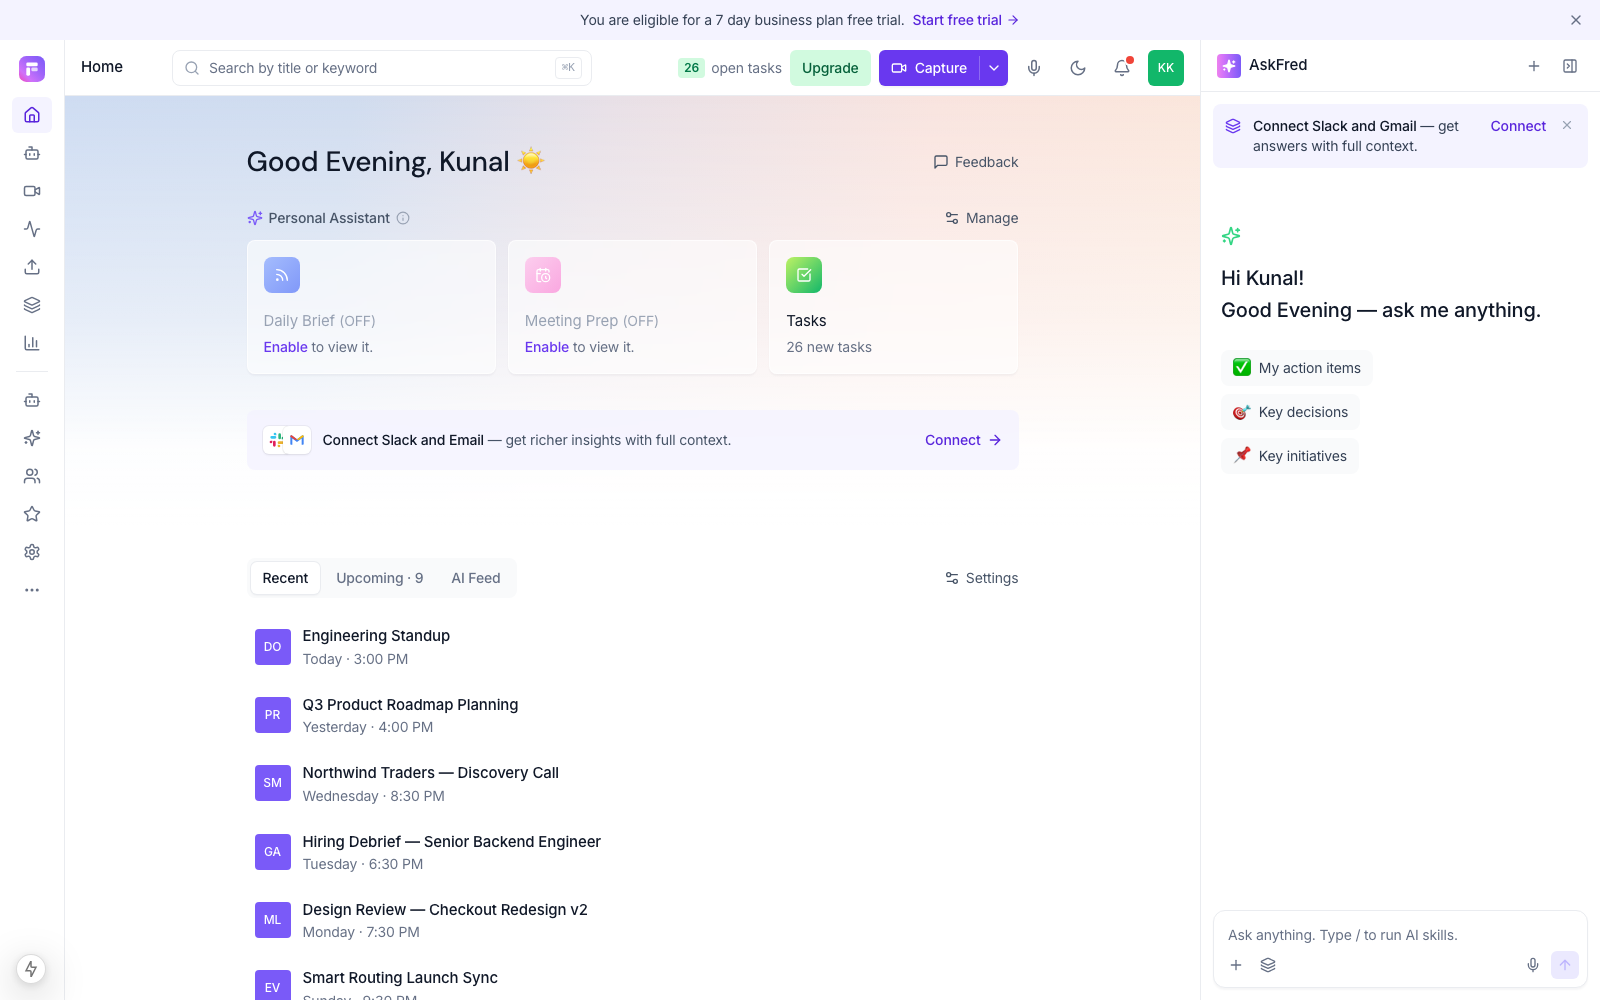
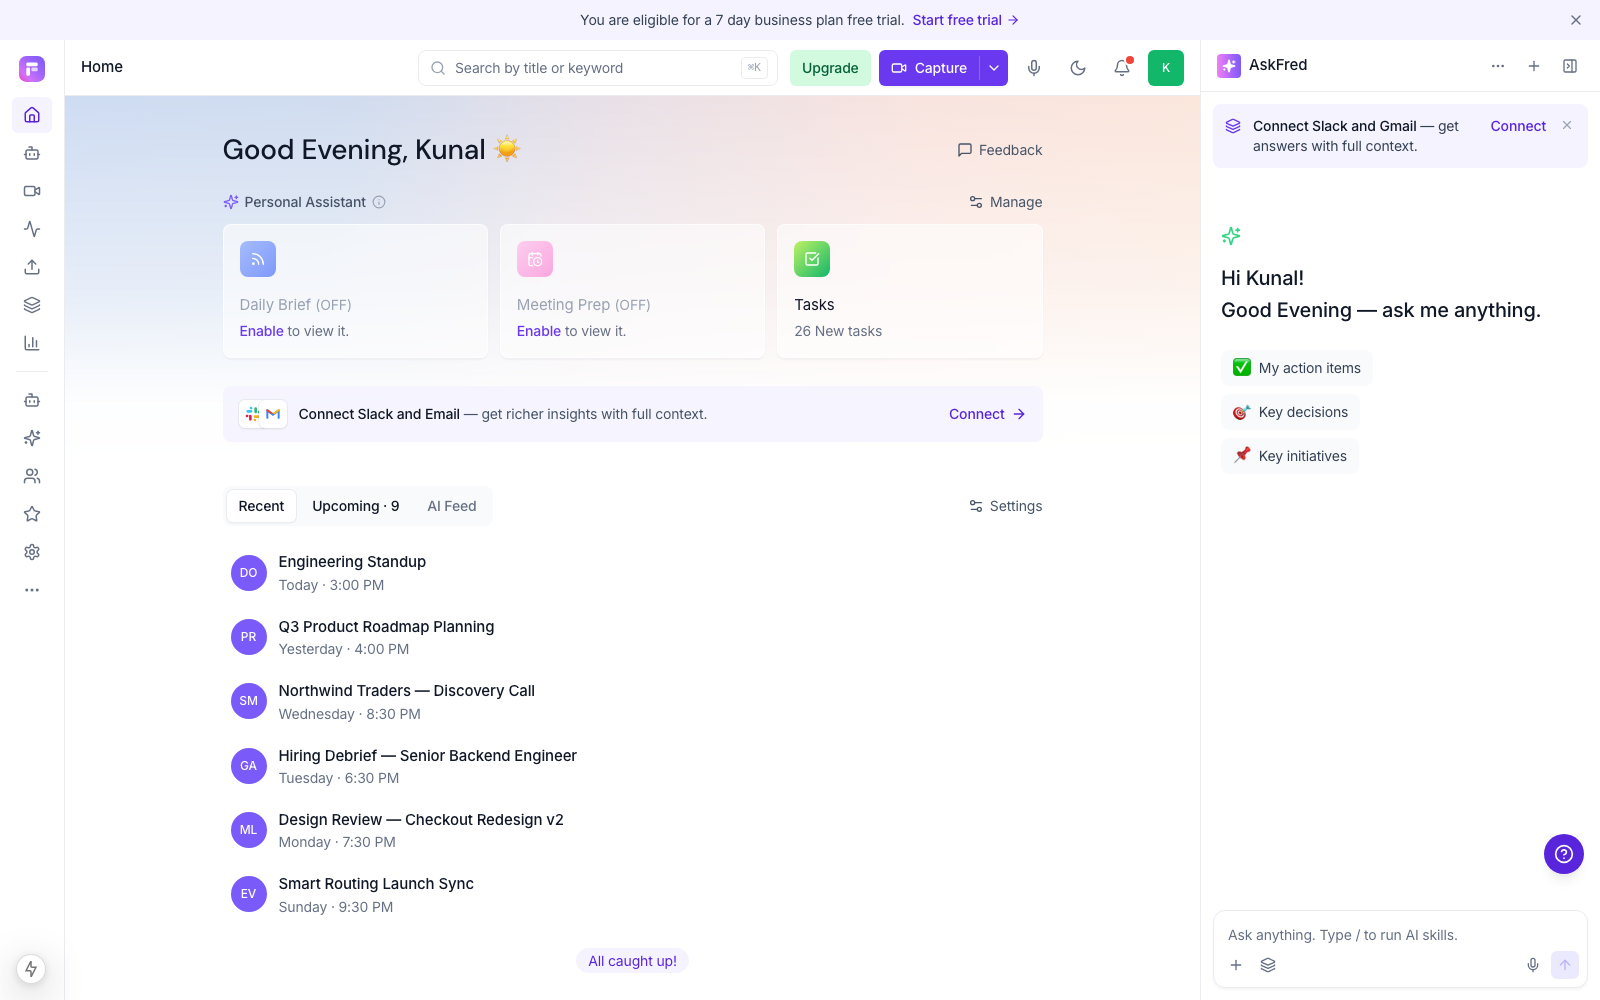
fix(web): align the home screen to the measured original
Stacking my home screen against the real one at the same viewport made the
differences obvious in a way that looking at either alone had not.

Three were structural. The content column was 771px against 819px. The gap
between the integrations banner and the feed tabs was 89px against 44px, because
the gradient block's bottom padding and the feed's top padding were stacking —
that doubled space was most of why the page felt loose. And the feed avatars
were rounded squares where the product uses circles.

The top bar needed a different fix. Centring the search with mx-auto let the
wide action cluster push it left, and absolute positioning corrected the centring
but took it out of flow so it overlapped the Upgrade button. A three-column grid
with equal flanks centres it against the bar and reserves the space, so neither
failure is possible.

That grid only balances if the flanks fit, so the open-tasks badge is gone from
the top bar. It was my own addition rather than anything the original has, the
count is a click away on the Tasks page, and it was what pushed the search off
centre and wrapped onto two lines.

Also adds the assistant panel's overflow menu and floating help control, and
drops the account chip to a single initial.

diff --git a/frontend/app/home/page.tsx b/frontend/app/home/page.tsx
@@ -82,7 +82,7 @@ export default function HomePage() {
     <AppShell title="Home" askFred onCapture={() => setCreateOpen(true)}>
       {/* The soft gradient wash behind the greeting, as on the real Home. */}
       <div className="bg-home-wash dark:bg-home-wash-dark">
-        <div className="mx-auto w-full max-w-[820px] px-6 pb-14 pt-12">
+        <div className="mx-auto w-full max-w-[868px] px-6 pb-7 pt-9">
           <div className="flex flex-wrap items-center justify-between gap-3">
             <h1 className="font-appDisplay text-[28px] font-medium leading-9 tracking-title text-gray-900 dark:text-gray-100">
               {greeting()}, {user?.name?.split(" ")[0] ?? "there"} <span aria-hidden>☀</span>
@@ -96,7 +96,7 @@ export default function HomePage() {
             </Link>
           </div>
 
-          <div className="mt-7 flex items-center justify-between">
+          <div className="mt-6 flex items-center justify-between">
             <p className="inline-flex items-center gap-1.5 text-base font-medium text-gray-600 dark:text-gray-400">
               <Sparkles className="size-4 text-purple-500" />
               Personal Assistant
@@ -147,14 +147,14 @@ export default function HomePage() {
               </span>
               <p className="mt-4 text-md text-gray-900 dark:text-gray-100">Tasks</p>
               <p className="mt-1 text-base text-gray-500 dark:text-gray-400">
-                {tasksQuery.isLoading ? "Loading…" : `${openTasks.length} new task${openTasks.length === 1 ? "" : "s"}`}
+                {tasksQuery.isLoading ? "Loading…" : `${openTasks.length} New task${openTasks.length === 1 ? "" : "s"}`}
               </p>
             </Link>
           </div>
 
           <Link
             href="/integrations"
-            className="mt-9 flex items-center gap-3 rounded-lg bg-purple-50/80 px-4 py-4 backdrop-blur-sm transition-colors hover:bg-purple-100/70 dark:bg-purple-500/10 dark:hover:bg-purple-500/15"
+            className="mt-7 flex items-center gap-3 rounded-lg bg-purple-50/80 px-4 py-3.5 backdrop-blur-sm transition-colors hover:bg-purple-100/70 dark:bg-purple-500/10 dark:hover:bg-purple-500/15"
           >
             <span className="flex shrink-0 -space-x-2">
               <span className="flex size-7 items-center justify-center rounded-md bg-white shadow-e1 ring-1 ring-black/5">
@@ -176,7 +176,7 @@ export default function HomePage() {
         </div>
       </div>
 
-      <div className="mx-auto w-full max-w-[820px] px-6 py-8">
+      <div className="mx-auto w-full max-w-[868px] px-6 pb-10 pt-4">
         <div className="flex flex-wrap items-center justify-between gap-3">
           <div className="flex gap-1 rounded-lg bg-gray-50 p-1 dark:bg-white/5">
             {(
@@ -226,12 +226,13 @@ export default function HomePage() {
                   <li key={meeting.id}>
                     <Link
                       href={`/view/${meeting.id}`}
-                      className="flex items-center gap-3 rounded-lg px-2 py-2.5 transition-colors hover:bg-gray-50 dark:hover:bg-white/[0.03]"
+                      className="flex items-center gap-3 rounded-lg px-2 py-2 transition-colors hover:bg-gray-50 dark:hover:bg-white/[0.03]"
                     >
                       <Avatar
                         name={meeting.participants[0]?.name ?? meeting.title}
                         color={meeting.participants[0]?.color}
                         size="lg"
+                        className="rounded-full"
                       />
                       <span className="min-w-0 flex-1">
                         <span className="block truncate text-md font-medium text-gray-900 dark:text-gray-100">

diff --git a/frontend/components/layout/ContentTopbar.tsx b/frontend/components/layout/ContentTopbar.tsx
@@ -53,15 +53,15 @@ export function ContentTopbar({ title, onCapture, onOpenNav }: ContentTopbarProp
   };
 
   return (
-    <header className="flex h-[56px] shrink-0 items-center gap-3 border-b border-[var(--app-border)] bg-[var(--app-surface)] px-4">
+    <header className="grid h-[56px] shrink-0 grid-cols-[1fr_auto_1fr] items-center gap-3 border-b border-[var(--app-border)] bg-[var(--app-surface)] px-4">
       {onOpenNav && (
         <IconButton label="Open navigation" onClick={onOpenNav} className="-ml-1">
           <Menu className="size-[18px]" />
         </IconButton>
       )}
-      <div className="min-w-0 shrink-0 text-md font-medium text-gray-900 dark:text-gray-100">{title}</div>
+      <div className="flex min-w-0 items-center text-md font-medium text-gray-900 dark:text-gray-100">{title}</div>
 
-      <form onSubmit={submit} className="mx-auto hidden w-full max-w-[420px] md:block">
+      <form onSubmit={submit} className="hidden w-[360px] lg:block">
         <div className="relative">
           <Search className="pointer-events-none absolute left-3 top-1/2 size-4 -translate-y-1/2 text-gray-400" />
           <input
@@ -79,13 +79,7 @@ export function ContentTopbar({ title, onCapture, onOpenNav }: ContentTopbarProp
         </div>
       </form>
 
-      <div className="ml-auto flex shrink-0 items-center gap-2">
-        <span className="hidden items-center gap-1.5 text-base text-gray-500 xl:flex dark:text-gray-400">
-          <span className="rounded bg-green-100 px-1.5 py-0.5 text-sm font-semibold tabular-nums text-green-700 dark:bg-green-500/15 dark:text-green-300">
-            {tasks?.length ?? 0}
-          </span>
-          open tasks
-        </span>
+      <div className="flex items-center justify-end gap-2">
 
         <button
           type="button"
@@ -152,7 +146,12 @@ export function ContentTopbar({ title, onCapture, onOpenNav }: ContentTopbarProp
           align="end"
           trigger={
             <button type="button" aria-label="Account menu" className={cn("rounded-md transition-opacity hover:opacity-85")}>
-              <Avatar name={user?.name ?? "Guest"} color="green" size="lg" className="rounded-md" />
+              <Avatar
+                name={(user?.name ?? "Guest").split(" ")[0]}
+                color="green"
+                size="lg"
+                className="rounded-md"
+              />
             </button>
           }
           items={[

diff --git a/frontend/components/layout/AskFredPanel.tsx b/frontend/components/layout/AskFredPanel.tsx
@@ -4,12 +4,13 @@ import { useEffect, useRef, useState } from "react";
 import Link from "next/link";
 import { useQuery } from "@tanstack/react-query";
 import {
-  ArrowUp, Layers, Mic, PanelRightClose, Plus, Sparkles, X,
+  ArrowUp, HelpCircle, Layers, Mic, MoreHorizontal, PanelRightClose, Plus, Sparkles, X,
 } from "lucide-react";
 import { api, queryKeys } from "@/lib/api";
 import type { SegmentMatch } from "@/lib/types";
 import { cn, formatTimestamp } from "@/lib/utils";
 import { IconButton } from "@/components/ui/Button";
+import { Dropdown } from "@/components/ui/Dropdown";
 import { useSession } from "./SessionProvider";
 
 interface Exchange {
@@ -92,6 +93,18 @@ export function AskFredPanel({ onClose }: { onClose: () => void }) {
           <Sparkles className="size-3.5 fill-current" />
         </span>
         <h2 className="flex-1 text-md font-medium text-gray-900 dark:text-gray-100">AskFred</h2>
+        <Dropdown
+          align="end"
+          trigger={
+            <IconButton label="Assistant options" size="sm">
+              <MoreHorizontal className="size-4" />
+            </IconButton>
+          }
+          items={[
+            { key: "clear", label: "Clear conversation", onSelect: () => setHistory([]) },
+            { key: "about", label: "Answers cite the transcript", disabled: true },
+          ]}
+        />
         <IconButton label="New conversation" size="sm" onClick={() => setHistory([])}>
           <Plus className="size-4" />
         </IconButton>
@@ -183,6 +196,20 @@ export function AskFredPanel({ onClose }: { onClose: () => void }) {
             ))}
           </ul>
         )}
+      </div>
+
+      {/* Floating help affordance, pinned above the composer. */}
+      <div className="pointer-events-none relative">
+        <a
+          href="https://github.com/kunalKumar-13/minutes#readme"
+          target="_blank"
+          rel="noreferrer"
+          aria-label="How this assistant works"
+          title="How this assistant works"
+          className="pointer-events-auto absolute -top-16 right-4 flex size-10 items-center justify-center rounded-full bg-purple-700 text-white shadow-e3 transition-colors hover:bg-purple-800"
+        >
+          <HelpCircle className="size-5" />
+        </a>
       </div>
 
       <div className="shrink-0 p-3">
